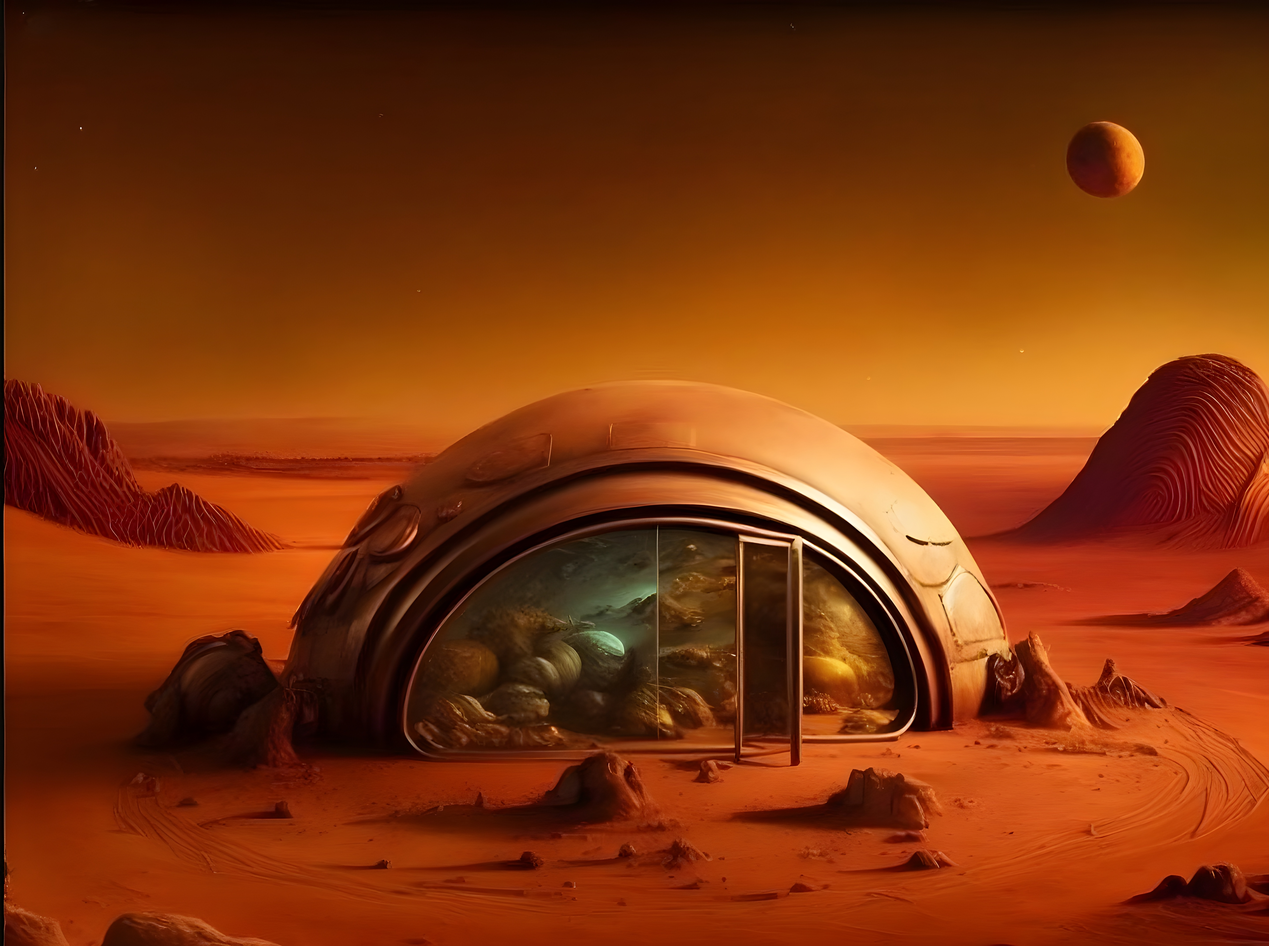
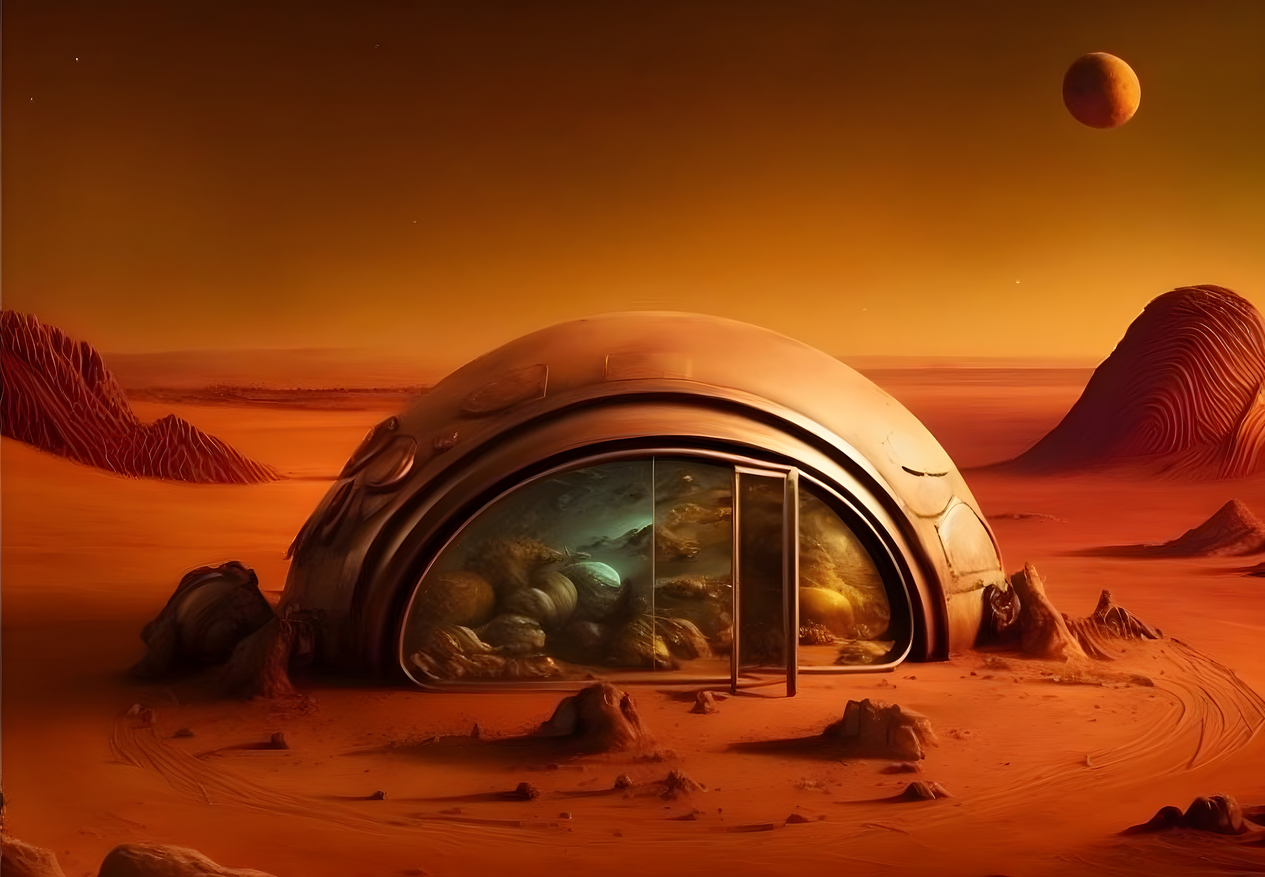
herosection done

diff --git a/src/app/Navbar.tsx b/src/app/Navbar.tsx
@@ -21,20 +21,21 @@ function Navbar() {
                 <div>
                     <Image src={logo} className="" alt="logo" width={100} height={100} />
                 </div>
-                <ul className={`flex flex-col items-center md:flex-row gap-8 text-lg absolute top-0 right-0 bg-orange-900/25 backdrop-blur-lg  pt-24 h-screen pr-5 w-[50vw] sm:w-[40vw] transform-gpu transition-transform ${nav ? "translate-x-full" : " translate-x-0 "} text-right  md:translate-x-0  md:backdrop-blur-0 md:h-fit md:pt-0 md:pr-0 md:w-fit md:bg-transparent md:static `}>
-                    <li>
-                        <Link href="/login" className="px-4 py-2 hover:bg-mPrimary/100  bg-mPrimary/90 rounded-xl">
-                            Login
-                        </Link>
-                    </li>
-
+                <ul className={`flex  items-center flex-row gap-8 text-lg  text-right  translate-x-0  backdrop-blur-0 h-fit pt-0 pr-0 w-fit bg-transparent static `}>
+                    <li>Home</li>
                     <li>
                         <button className=" text-4xl relative">
                             <HiOutlineShoppingCart />
                             <span className="w-4 text-black absolute bottom-0 right-0 bg-white rounded-full aspect-square grid place-content-center text-xs">{data}</span>
                         </button>
                     </li>
+                    <li>
+                        <Link href="/login" className="px-4 py-2 hover:bg-mPrimary/100  bg-mPrimary/90 rounded-xl">
+                            Login
+                        </Link>
+                    </li>
                 </ul>
+
                 <ul className="flex gap-3 text-3xl z-20 md:hidden">
                     <button className="  relative">
                         <HiOutlineShoppingCart />

diff --git a/src/app/page.tsx b/src/app/page.tsx
@@ -25,8 +25,8 @@ export default async function Home() {
   const res = await fetch("http://4.188.232.104:4000/db")
 
   return (
-    <div className={`${montserrat.variable}  font-montserrat bg-red-500 relative `}>
-      <Image src={burger} alt="hero image" className="w-full h-full object-cover" />
+    <div className={`${montserrat.variable}  hero font-montserrat bg-red-500 w-screen h-screen relative `}>
+      {/* <Image src={burger} alt="hero image" className="w-full h-full object-cover bg-fixed" /> */}
       <div className="absolute bg-black/5 top-0 left-0 w-full h-full ">
         <Navbar />
       </div>

diff --git a/src/app/globals.css b/src/app/globals.css
@@ -28,3 +28,9 @@
         @apply hover:text-mPrimary transition-colors
     }
   }
+  .hero{
+    background-image: url("./ultra.jpg");
+    background-size: cover;
+    background-position: center;
+    background-attachment: fixed;
+  }
